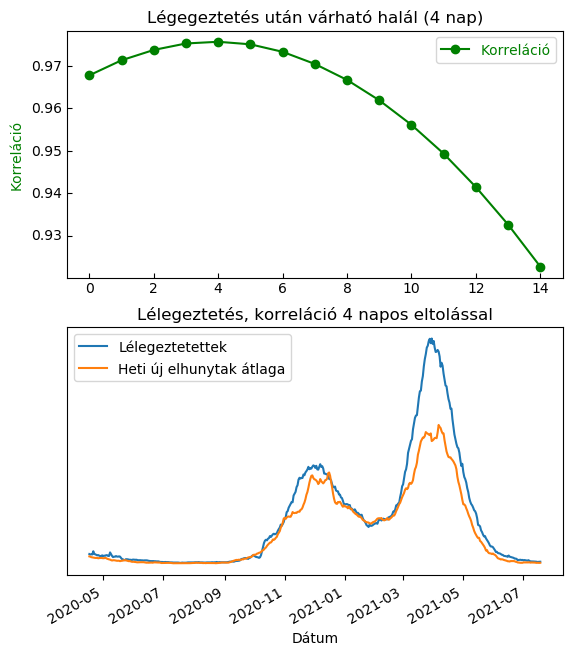
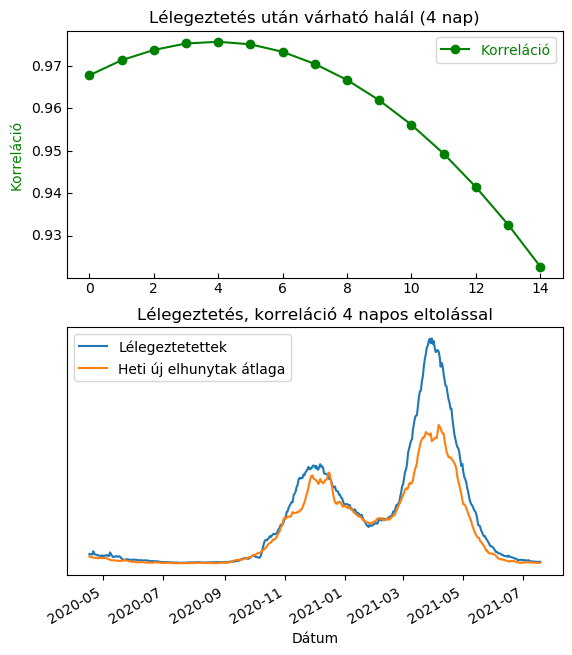
Elgépelés javítása

Changed region(s): [[0.2378, 0.0, 0.8619, 0.0611]]

diff --git a/kép_lélegeztetés_után_várható_halál.py b/kép_lélegeztetés_után_várható_halál.py
@@ -51,7 +51,7 @@ host = host_subplot(211, axes_class=AA.Axes)
 
 host.set_xlabel("Napok")
 host.set_ylabel("Korreláció")
-host.set_title("Légegeztetés után várható halál (" + str(varhato_halal) + " nap)")
+host.set_title("Lélegeztetés után várható halál (" + str(varhato_halal) + " nap)")
 host.axis["top"].major_ticks.set_visible(False)
 host.axis["right"].major_ticks.set_visible(False)
 
